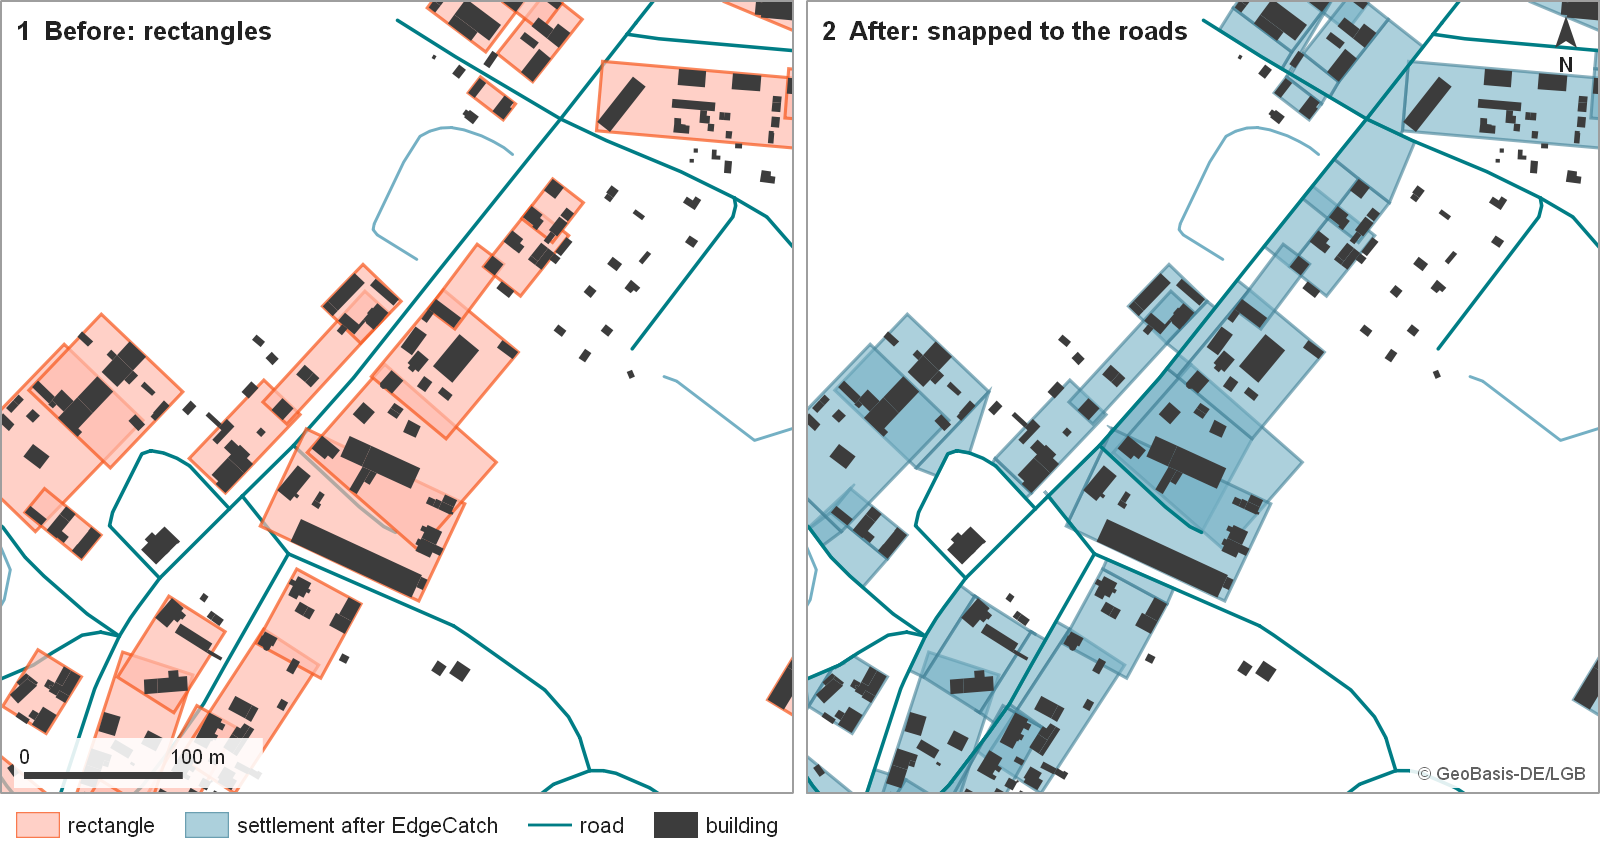
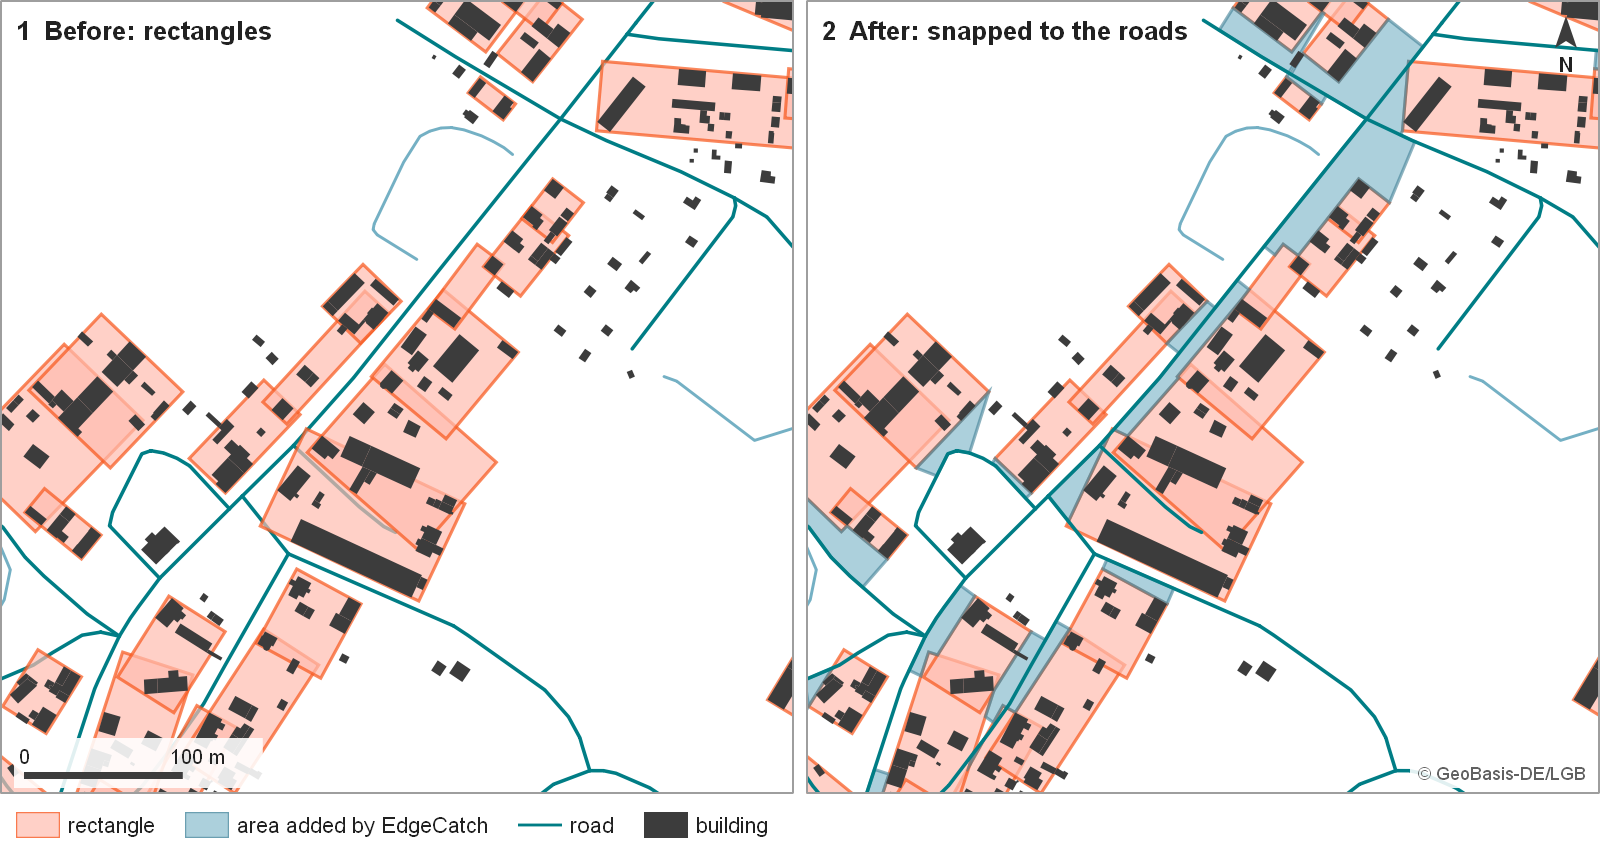
docs: compact pipeline diagram, highlight only EdgeCatch additions
- how-it-works.md: the processing pipeline diagram uses horizontal rows for
  inputs, global preparation, the three step groups and the output; edges
  connect the group boxes, so arrowheads end at the box edges; no wrapped
  labels; about 40 % less height
- Step 7 map: only the area EdgeCatch adds (result minus rectangles) is
  light blue, the rectangles stay pink; derived layers for EdgeCatch and
  GapClose share one difference helper in make_map_figures.py

diff --git a/docs/img/_src/make_map_figures.py b/docs/img/_src/make_map_figures.py
@@ -137,10 +137,11 @@ FIGURES = {
             ("1  Before: rectangles",
              [B_AUX, B_RN, ("03_MST_Clustering", "after_clustering"), B_HU]),
             ("2  After: snapped to the roads",
-             [B_AUX, ("05_EdgeCatch", "polygons_merged", "snapped"), B_RN, B_HU]),
+             [B_AUX, ("03_MST_Clustering", "after_clustering"),
+              ("computed", "edgecatch_added"), B_RN, B_HU]),
         ],
         "legend": [(("03_MST_Clustering", "after_clustering"), "rectangle"),
-                   (("05_EdgeCatch", "polygons_merged", "snapped"), "settlement after EdgeCatch"),
+                   (("computed", "edgecatch_added"), "area added by EdgeCatch"),
                    (B_RN, "road"), (B_HU, "building")],
     },
     "09_gap_close.png": {
@@ -180,18 +181,29 @@ def index_layers(project):
     return index
 
 
+# Derived layers: name -> (result layer, input layer, role). The difference
+# result - input is everything the step added, independent of which of its
+# sub-steps added it.
+COMPUTED = {
+    "edgecatch_added": (("05_EdgeCatch", "polygons_merged"),
+                        ("03_MST_Clustering", "after_clustering"), "snapped"),
+    "gapclose_added": (("07_GapClose", "result"),
+                       ("06_ErodeEmptyAreas", "step0b_dissolved"), "added"),
+}
+
+
 def add_computed_layers(index, crs):
     """Layers derived from the debug data (not written by the plugin itself)."""
-    before = QgsGeometry.unaryUnion(
-        [f.geometry() for f in index[("06_ErodeEmptyAreas", "step0b_dissolved")].getFeatures()])
-    after = QgsGeometry.unaryUnion(
-        [f.geometry() for f in index[("07_GapClose", "result")].getFeatures()])
-    added = QgsVectorLayer(f"Polygon?crs={crs.authid()}", "gapclose_added", "memory")
-    feature = QgsFeature()
-    feature.setGeometry(after.difference(before))      # everything GapClose added
-    added.dataProvider().addFeatures([feature])
-    added.setRenderer(role_renderer("added", added))
-    index[("computed", "gapclose_added")] = added
+    def union(key):
+        return QgsGeometry.unaryUnion([f.geometry() for f in index[key].getFeatures()])
+
+    for name, (after_key, before_key, role) in COMPUTED.items():
+        layer = QgsVectorLayer(f"Polygon?crs={crs.authid()}", name, "memory")
+        feature = QgsFeature()
+        feature.setGeometry(union(after_key).difference(union(before_key)))
+        layer.dataProvider().addFeatures([feature])
+        layer.setRenderer(role_renderer(role, layer))
+        index[("computed", name)] = layer
 
 
 def resolve(index, ref):

diff --git a/docs/superpowers/plans/2026-09-24-documentation-figures.md b/docs/superpowers/plans/2026-09-24-documentation-figures.md
@@ -372,3 +372,4 @@ Record per session what was done and anything open, so the next session can resu
 | 2026-10-04 | 0 / 5 prep | Second debug run (with the new checkpoints) integrated: 58 debug layers, `02a_FootprintDensity/block_overlap` and `02b_CreateMST/` (full Delaunay 832 edges in the extent → 541 after the street filter → MST 130). Seven stale `07_GapClose` files from the first run (11:43; GapClose gained the `holes_shrunk` checkpoint, so the numbers shifted) moved out of the folder (kept in the session scratchpad). `make_figures_project.py` now keys styles by step name instead of file number and prints layers that fall back to a default style; F09-03 gets a graduated BCR renderer. | Rulings: (1) F09-03 keeps the BCR map but drops the dense-block highlight — no block reaches 18 % (`dense_blocks` is empty and therefore not written, `save_debug_layer` skips empty layers); cost if wrong: one extra outline layer later. (2) `local_block_overlap` is absent because the partition has ≤ 5 inner blocks, so the code falls back to the global threshold — expected, no figure needs it. Next: Session 5 map figures. |
 | 2026-10-04 | 5 | Map series exported by `docs/img/_src/make_map_figures.py` from `figures.qgz` and embedded in `how-it-works.md`: 01 Blocker, 02 ImportFilter (3 tiles), 03 FootprintDensity, 04 CreateMST (3 tiles), 05 MST_Clustering, 07 EdgeCatch (2 tiles), 09 GapClose (2 tiles), 10 PatchRemove — all 1600 px wide (display 800), 197–412 KB, each with scale bar, north arrow, attribution and a legend drawn from the layer symbols. Step 2 text aligned with the code (kernel density cell 50 m / radius 200 m, density value ≥ 4, buffer 33.3 m; min_area applies to groups of touching buildings, 35 m² to single buildings). | Rulings: (1) Figure size 1600 px wide instead of 800×600 / 1800×600 — the chosen extent is 2:1, and 2× resolution keeps text readable at 800 px display; single maps use the reference extent, multi-tile maps a 500 × 500 m focus window (439000–439500 / 5837850–5838350). (2) F09-01 is a single map (kept blocks coloured, dropped blocks white) instead of two tiles — in the focus window the tiles differed by one block only; the street-vs-city-block contrast is dropped because Blocker builds both in one step from merged RN + Aux. (3) F09-09 highlights the computed difference result − input (all area added by GapClose), not one filter layer, which covered only part of the additions. (4) MST edges orange to separate them from teal roads. (5) F09-06 dropped (no isolated building > 300 m²), F09-08 dropped (no void removed). Open: user review of the maps on GitHub. |
 | 2026-10-04 | 5 (rev.) | User review applied: (1) F09-04 removed edges now dark grey dashed (1.2/0.8 mm) against the light-blue solid triangulation edges; (2) every map tile has a thin grey frame (#9E9E9E, 2 px) so white maps do not run into each other or the page; (3) F09-07 snapped polygons light blue (`snapped` role) instead of the same pink as the rectangles; (4) F09-10 PatchRemove dropped — image and embed removed. All maps re-exported (191–423 KB). | Open: user review of the remaining maps on GitHub. |
+| 2026-10-04 | 1 / 5 (rev.) | User review: (1) F08 pipeline diagram reorganised for less height — horizontal rows for inputs, global preparation, the three step groups and the output; edges connect the group boxes, so arrowheads end at the box edges; no wrapped labels (wrappingWidth 300); rendered height about 40 % lower. (2) F09-07: only the area EdgeCatch adds (computed `polygons_merged` − rectangles) is light blue, the rectangles stay pink; caption and alt text updated. | — |

diff --git a/docs/how-it-works.md b/docs/how-it-works.md
@@ -29,32 +29,41 @@ For input layer specifications, field requirements, filter file format, and the 
 ## Processing Pipeline
 
 ```mermaid
-flowchart TD
+%%{init: {"flowchart": {"wrappingWidth": 300}}}%%
+flowchart TB
     subgraph inputs ["Input data"]
-        HU[HU<br/>buildings]
-        RN[RN<br/>road network]
-        AUX[Aux<br/>auxiliary lines]
-        PART[Part<br/>partitions]
-        FLT[Filter file]
+        direction LR
+        HU[HU buildings] ~~~ RN[RN roads] ~~~ AUX[Aux lines] ~~~ PART[Part] ~~~ FLT[Filter file]
     end
 
     subgraph global ["Global preparation"]
-        G1[Load all input layers<br/>into GeoPackages]
-        G2[Merge RN + Aux<br/>→ barrier network]
-        G3[Global footprint<br/>density threshold]
-        G1 --> G2 --> G3
+        direction LR
+        G1[Load layers into GeoPackages] --> G2[Merge RN + Aux → barriers] --> G3[Global density threshold]
     end
 
     subgraph part ["Per partition — for each PART_xxx"]
-        S1["1 Blocker"] --> S2["2 ImportFilter"] --> S3["3 FootprintDensity"]
-        S3 --> S4["4 CreateMST"] --> S5["5 MST_Clustering"] --> S6["6 AddSingleBuilding"]
-        S6 --> S7["7 EdgeCatch"] --> S8["8 ErodeEmptyAreas"] --> S9["9 GapClose"] --> S10["10 PatchRemove"]
+        direction TB
+        subgraph prep [" "]
+            direction LR
+            S1[1 Blocker] --> S2[2 ImportFilter] --> S3[3 FootprintDensity]
+        end
+        subgraph aggr [" "]
+            direction LR
+            S4[4 CreateMST] --> S5[5 MST_Clustering] --> S6[6 AddSingleBuilding]
+        end
+        subgraph refine [" "]
+            direction LR
+            S7[7 EdgeCatch] --> S8[8 ErodeEmptyAreas] --> S9[9 GapClose] --> S10[10 PatchRemove]
+        end
+        prep --> aggr --> refine
     end
 
-    inputs --> G1
-    G3 --> S1
-    S10 --> M[Merge all partition results]
-    M --> OUT[(Output GeoPackage)]
+    subgraph output ["Output"]
+        direction LR
+        M[Merge partition results] --> OUT[Output GeoPackage]
+    end
+
+    inputs --> global --> part --> output
 
     classDef prep fill:#74B0C4,stroke:#007D85,color:#212121
     classDef aggr fill:#FFBCB0,stroke:#F7561A,color:#212121
@@ -392,10 +401,10 @@ The result is merged with the cluster polygons from Step 5 before refinement.
 
 <p align="center">
   <img src="img/how-it-works/07_edge_catch.png" width="800"
-       alt="Two map tiles: rectangles of the building groups, and the settlement polygon after the rectangles were extended to the roads">
+       alt="Two map tiles: rectangles of the building groups, and the same rectangles with the areas added by EdgeCatch up to the roads in blue">
 </p>
 
-*Figure: EdgeCatch — rectangles before and after snapping to the road network (the schematic below shows how). Data: © GeoBasis-DE/LGB.*
+*Figure: EdgeCatch — rectangles (pink) and the area EdgeCatch adds to reach the roads (blue); the schematic below shows how. Data: © GeoBasis-DE/LGB.*
 
 #### Sub-step 7a — Pre-filter road segments
 
